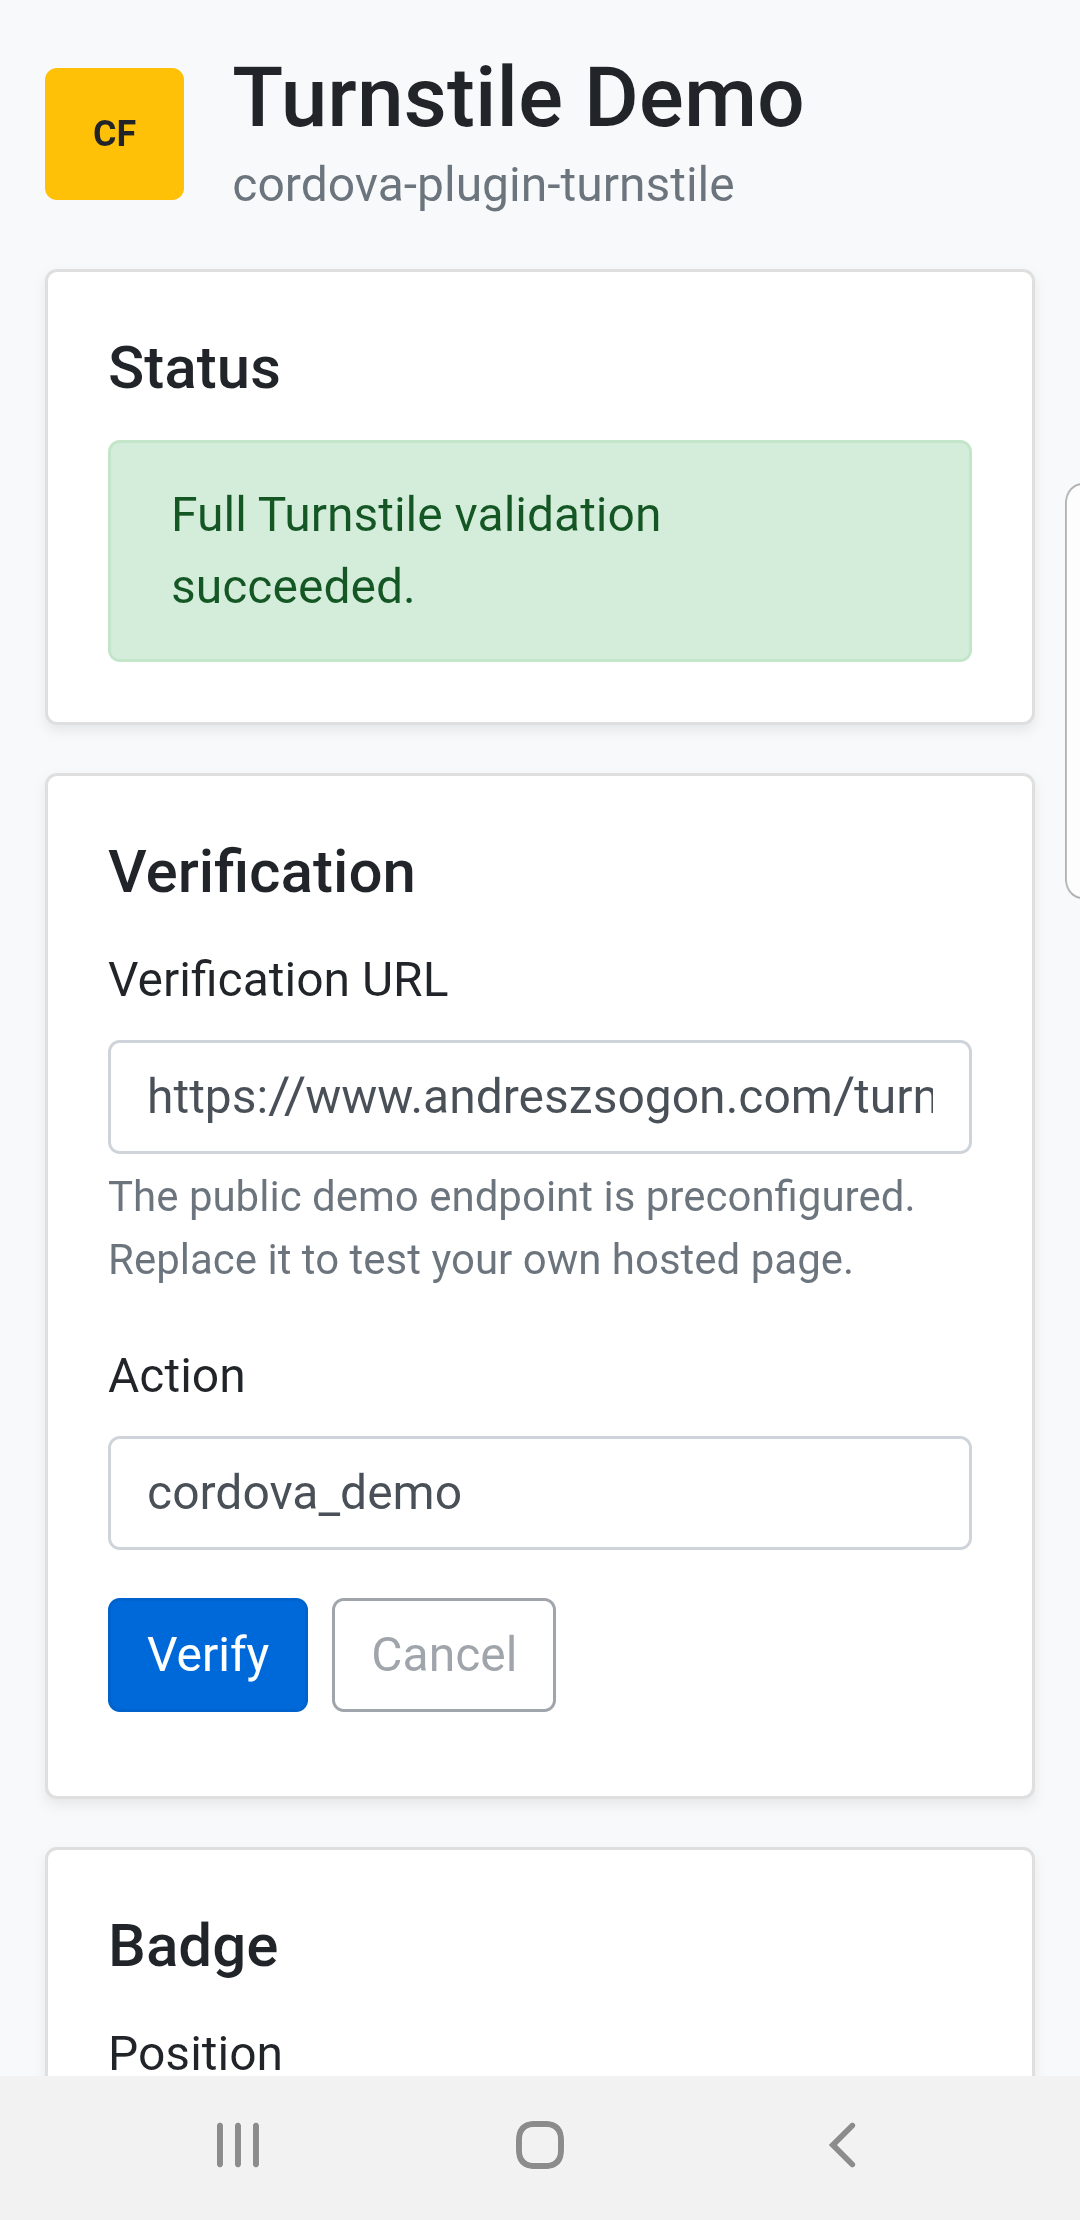
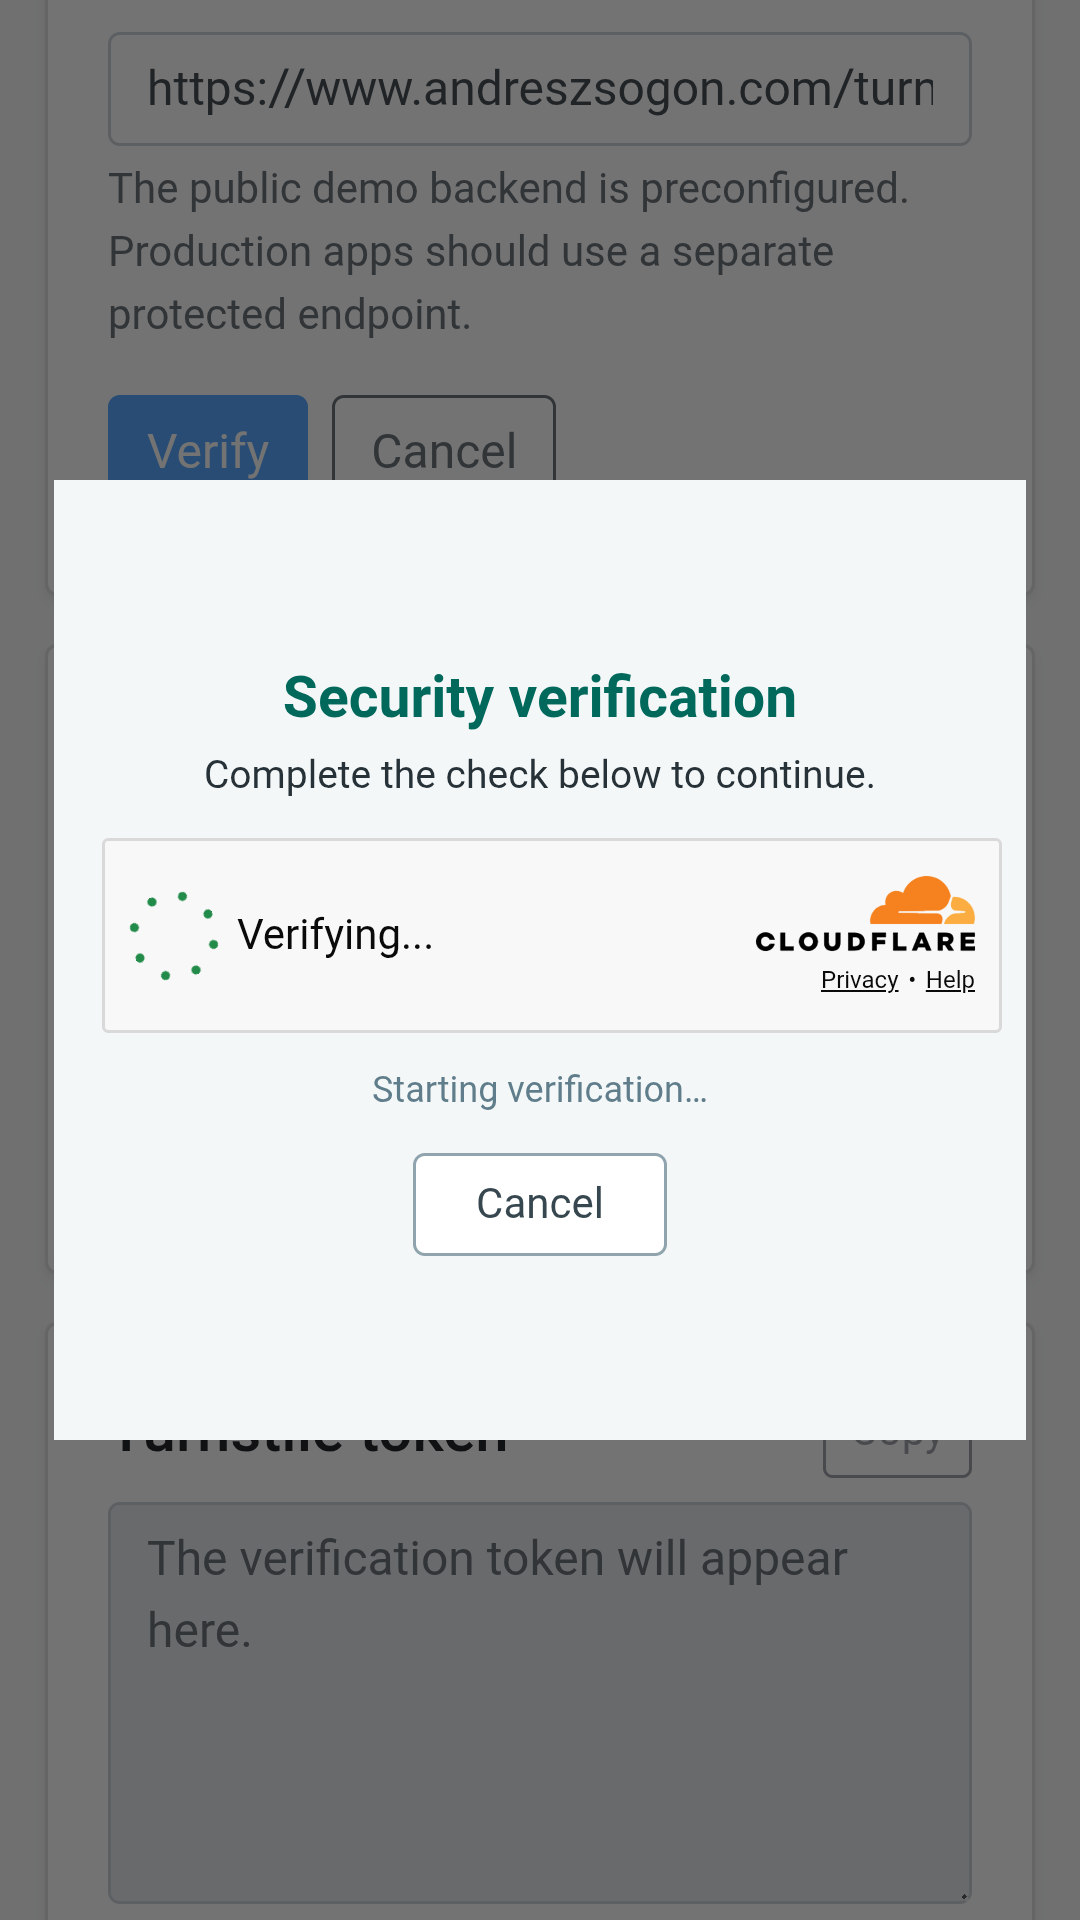
Separate Turnstile endpoints and refresh S7 demo assets

diff --git a/com.andreszs.turnstile.demo/www/js/index.js b/com.andreszs.turnstile.demo/www/js/index.js
@@ -12,7 +12,7 @@
         cancel: 'Verification was cancelled.',
         challenge_error: 'Cloudflare could not complete the challenge.',
         expired: 'The challenge expired. Try again.',
-        invalid_options: 'The verification URL or action is invalid.',
+        invalid_options: 'The challenge URL, backend URL, or action is invalid.',
         invalid_response: 'The hosted page returned an invalid response.',
         invalid_token: 'The hosted page returned an invalid token.',
         load_error: 'The verification page could not be loaded.',
@@ -46,29 +46,44 @@
     }
 
     function readOptions() {
-        var value = elements.verificationUrl.value.trim();
+        var challengeValue = elements.challengeUrl.value.trim();
+        var backendValue = elements.backendUrl.value.trim();
         var action = elements.action.value.trim();
-        var url;
+        var challengeUrl;
+        var backendUrl;
 
         if (!/^[A-Za-z0-9_-]{1,32}$/.test(action)) {
             throw new Error('Action must contain 1-32 letters, numbers, underscores, or hyphens.');
         }
 
         try {
-            url = new URL(value);
+            challengeUrl = new URL(challengeValue);
         } catch (ignore) {
-            throw new Error('Enter a valid verification URL.');
+            throw new Error('Enter a valid Challenge URL.');
         }
 
-        if (url.protocol !== 'https:') {
-            throw new Error('The verification URL must use HTTPS.');
+        if (challengeUrl.protocol !== 'https:' || challengeUrl.pathname === '/') {
+            throw new Error('The Challenge URL must use HTTPS and include a path.');
         }
 
-        if (url.searchParams.get('action') !== action) {
-            throw new Error('The URL action parameter must match the Action field.');
+        if (challengeUrl.searchParams.get('action') !== action) {
+            throw new Error('The Challenge URL action parameter must match the Action field.');
         }
 
-        return {url: url.href, action: action};
+        try {
+            backendUrl = new URL(backendValue);
+        } catch (ignoreBackend) {
+            throw new Error('Enter a valid Backend URL.');
+        }
+
+        if (backendUrl.protocol !== 'https:' || backendUrl.pathname === '/') {
+            throw new Error('The Backend URL must use HTTPS and include a path.');
+        }
+
+        return {
+            challenge: {url: challengeUrl.href, action: action},
+            backendUrl: backendUrl.href
+        };
     }
 
     function verify() {
@@ -92,14 +107,14 @@
         setRunning(true);
         setStatus('Requesting a Turnstile challenge…', 'info');
 
-        turnstile.verify(options, function (token) {
+        turnstile.verify(options.challenge, function (token) {
             elements.token.value = token;
             elements.copyButton.disabled = false;
             elements.verifyButton.disabled = true;
             elements.cancelButton.disabled = true;
             setStatus('Token received. Validating it with the demo backend…', 'info');
 
-            fetch(options.url, {
+            fetch(options.backendUrl, {
                 method: 'POST',
                 headers: {'Content-Type': 'application/json'},
                 body: JSON.stringify({
@@ -189,7 +204,7 @@
         elements.hideBadgeButton.disabled = !available;
 
         if (available) {
-            setStatus('Device ready. Enter your hosted verification URL.', 'success');
+            setStatus('Device ready. Enter the challenge and backend URLs.', 'success');
         } else {
             setStatus('cordova-plugin-turnstile is not installed.', 'error');
         }
@@ -200,6 +215,7 @@
         elements = {
             action: byId('action'),
             appVersion: byId('appVersion'),
+            backendUrl: byId('backendUrl'),
             badgePosition: byId('badgePosition'),
             cancelButton: byId('cancelButton'),
             copyButton: byId('copyButton'),
@@ -207,7 +223,7 @@
             showBadgeButton: byId('showBadgeButton'),
             status: byId('status'),
             token: byId('token'),
-            verificationUrl: byId('verificationUrl'),
+            challengeUrl: byId('challengeUrl'),
             verifyButton: byId('verifyButton')
         };
 

diff --git a/com.andreszs.turnstile.demo/www/index.html b/com.andreszs.turnstile.demo/www/index.html
@@ -32,16 +32,23 @@
             <h2 class="h5 card-title">Verification</h2>
 
             <div class="form-group">
-                <label for="verificationUrl">Verification URL</label>
-                <input id="verificationUrl" class="form-control" type="url" inputmode="url"
+                <label for="challengeUrl">Challenge URL</label>
+                <input id="challengeUrl" class="form-control" type="url" inputmode="url"
                        autocomplete="url" placeholder="https://example.com/turnstile.php?action=demo">
-                <small class="form-text text-muted">Enter your HTTPS endpoint. It must serve the challenge on GET and validate the returned token on POST.</small>
+                <small class="form-text text-muted">HTTPS page that renders Turnstile with the public site key.</small>
             </div>
 
             <div class="form-group">
                 <label for="action">Action</label>
                 <input id="action" class="form-control" type="text" value="demo" maxlength="32"
                        autocomplete="off" pattern="[A-Za-z0-9_-]{1,32}">
+            </div>
+
+            <div class="form-group">
+                <label for="backendUrl">Backend URL</label>
+                <input id="backendUrl" class="form-control" type="url" inputmode="url"
+                       autocomplete="url" placeholder="https://api.example.com/protected-action">
+                <small class="form-text text-muted">Separate HTTPS endpoint that validates the token and performs the protected operation.</small>
             </div>
 
             <div class="d-flex flex-wrap">

diff --git a/com.andreszs.turnstile.demo/README.md b/com.andreszs.turnstile.demo/README.md
@@ -4,12 +4,12 @@ This directory contains the source files for the `cordova-plugin-turnstile` demo
 
 ## Precompiled APK
 
-Download and install [`com.andreszs.turnstile.demo.apk`](com.andreszs.turnstile.demo.apk). It is a debug build intended only for testing and is preconfigured to use the plugin project's public Turnstile demo endpoint.
+Download and install [`com.andreszs.turnstile.demo.apk`](com.andreszs.turnstile.demo.apk). It is a debug build intended only for testing and is preconfigured to use the plugin project's public Turnstile demo service. That service combines the challenge and validation routes for this public test only; production applications should keep their challenge page and protected backend handler separate.
 
 SHA-256:
 
 ```text
[2 lines of base64/hex data omitted]
 ```
 
 Install it on a connected Android device with:
@@ -20,13 +20,38 @@ adb install -r com.andreszs.turnstile.demo.apk
 
 ## Build from source
 
-The source deliberately contains no preconfigured verification endpoint URL or Turnstile keys. After building and opening the app, enter your own HTTPS endpoint and matching action. The endpoint used by this demo must serve the Turnstile challenge on `GET` and accept the returned token as JSON on `POST` for server-side validation.
+The source deliberately contains no preconfigured endpoint URLs or Turnstile keys. After building and opening the app, enter:
 
-The demo uses cordova-android 14 and the local minified Bootstrap 4 CSS file. It does not load Bootstrap from a CDN and does not include Bootstrap JavaScript or custom CSS.
+1. The **Challenge URL** of the hosted page that renders Turnstile with the public site key. Its `action` query parameter must match the Action field.
+2. The matching **Action** expected by the challenge page and backend.
+3. The separate **Backend URL** that accepts the returned token, validates it with Cloudflare Siteverify, and performs the protected operation.
+
+The backend must allow the Cordova app's exact origin, normally `https://localhost`, respond to CORS preflight `OPTIONS`, and accept the JSON request contract documented by the [plugin server examples](https://github.com/andreszs/cordova-plugin-turnstile/tree/main/server).
+
+Because this interactive demo accepts arbitrary HTTPS URLs, its `config.xml` and CSP allow HTTPS connections broadly. A production app should replace those wildcards with its exact backend origin as documented by the plugin README.
+
+To create the project with cordova-android 14:
+
+```shell
+cordova create com.andreszs.turnstile.demo com.andreszs.turnstile.demo "Turnstile Demo"
+cd com.andreszs.turnstile.demo
+cordova platform add android@14
+cordova plugin add https://github.com/andreszs/cordova-plugin-turnstile.git
+cordova plugin add cordova-plugin-app-version
+```
+
+Replace the generated `www` directory and `config.xml` with the files from this directory, then build:
+
+```shell
+cordova build android
+```
+
+The demo uses the local minified Bootstrap 4 CSS file. It does not load Bootstrap from a CDN and does not include Bootstrap JavaScript or custom CSS.
 
 ## Screenshots
 
 <p align="center">
-  <img src="screenshots/android/turnstile-001.png" width="320" alt="Turnstile demo showing the Cloudflare challenge">
-  <img src="screenshots/android/turnstile-002.png" width="320" alt="Turnstile demo showing successful server-side validation">
+  <img src="screenshots/android/turnstile-001.png" width="280" alt="Turnstile demo ready on a Samsung Galaxy S7">
+  <img src="screenshots/android/turnstile-002.png" width="280" alt="Cloudflare Turnstile challenge on a Samsung Galaxy S7">
+  <img src="screenshots/android/turnstile-003.png" width="280" alt="Successful server-side validation on a Samsung Galaxy S7">
 </p>

diff --git a/README.md b/README.md
@@ -112,5 +112,5 @@ To build and test a demo app with the provided source code:
 - Library: [Cloudflare Turnstile](https://developers.cloudflare.com/turnstile/)
 - Demo files and instructions: [`com.andreszs.turnstile.demo`](com.andreszs.turnstile.demo/)
 - Precompiled test app: [`com.andreszs.turnstile.demo.apk`](com.andreszs.turnstile.demo/com.andreszs.turnstile.demo.apk)
-- Run a Turnstile challenge from a developer-hosted HTTPS page, return the token to the Cordova application, and validate it with the backend.
-- The precompiled APK uses the public test endpoint. The source intentionally contains no preconfigured verification endpoint URL and requires the developer to enter one.
+- Run a Turnstile challenge from a developer-hosted HTTPS page, return the token to the Cordova application, and validate it with a separate backend handler.
+- The precompiled APK uses a public demo-only combined service. The source contains no preconfigured endpoint URLs and asks the developer for separate challenge and backend URLs.
